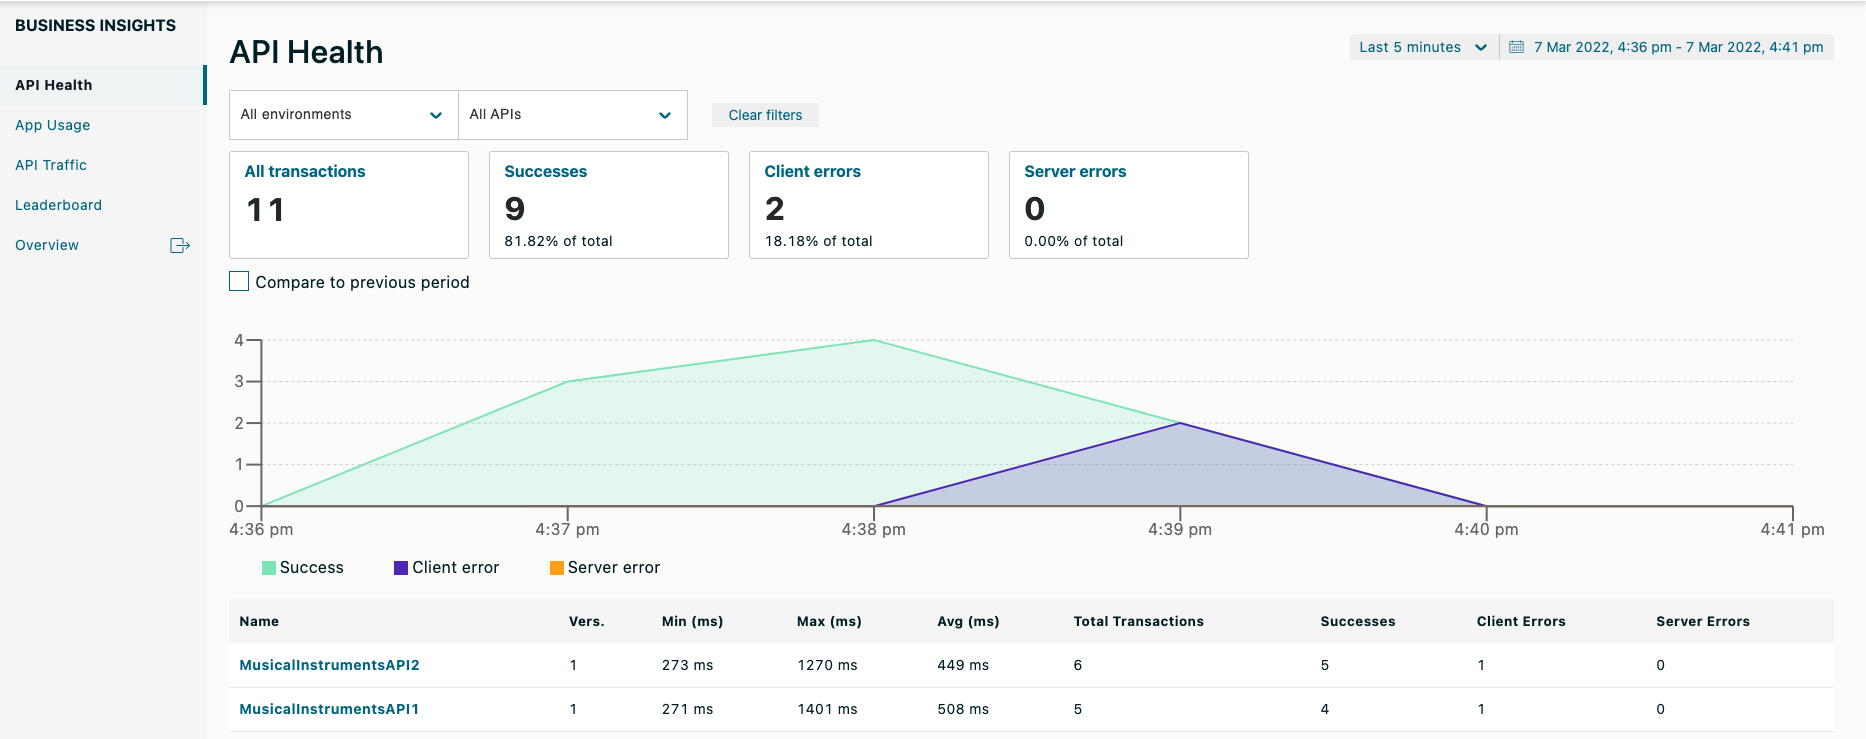
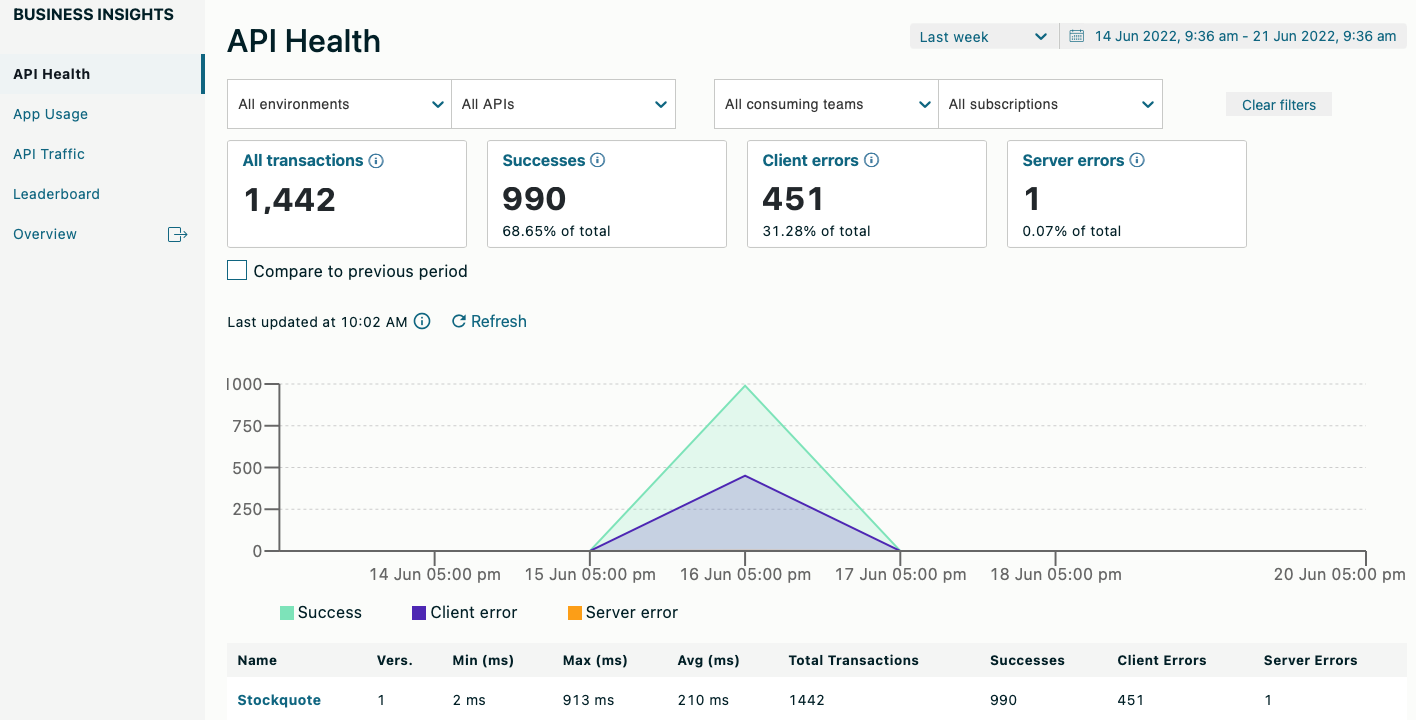
add consuming team and subscription filters to API Health dashboard in Business Insights

diff --git a/content/en/docs/get_actionable_insights/_index.md b/content/en/docs/get_actionable_insights/_index.md
@@ -22,6 +22,8 @@ Filter options are provided on each dashboard.
 Click **API Health** to see an aggregated view of your API recent usage. This view is useful for monitoring traffic patterns and successes or failures over time.
   ![Example of API Health](/Images/central/api_usage.png)
 
+Consuming Team and Subscription filters are available when a Marketplace is enabled for the current org.
+
 The view shows all transactions, successes, client errors, and server errors with the total number, percentage details, and trend (when **Compare to previous period** is selected) in the tiles across the top below the filter options. Click the **Compare to previous period** option to compare the current selected time range to the previous time range. You can compare the current week, month, or year to the previous week, month, or year to understand how your API usage is changing over time.
 
 Each item in the list also provides the average duration, maximum duration, and minimum duration.
